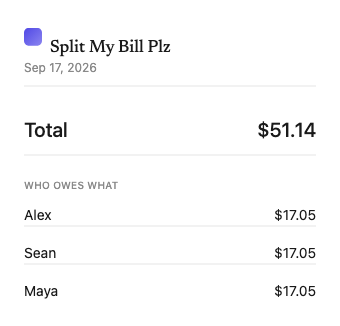
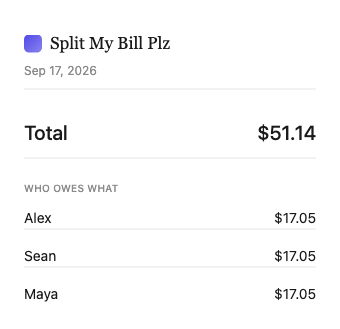
Fix brand mark/wordmark alignment in receipt image export
Found and fixed two distinct bugs while chasing the reported header
misalignment:

1. A real quoting bug: SERIF_STACK briefly used a double-quoted font
   name ("Times New Roman") interpolated into an already double-quoted
   HTML style="..." attribute, which silently truncated the attribute
   at that inner quote — every CSS declaration after font-family was
   being dropped by the HTML parser, undetectable by eye since Georgia
   still rendered as *a* serif font.

2. A genuine html2canvas bug, confirmed by comparing this exact markup
   rendered by a real browser screenshot vs. by html2canvas: the live
   browser centers the mark and wordmark correctly, but html2canvas
   anchors text glyphs near the bottom of their line box instead of
   centering the ink within it, regardless of font. Since this row's
   content is fixed ("Split My Bill Plz" at a constant font-size, never
   data-driven per bill), a measured constant offset on the mark is a
   safe, permanent fix rather than a fragile guess — landed at a 0.2px
   measured delta, tuned against the same pixel-ink test technique
   already in this suite. Added a dedicated test for this row.

diff --git a/src/lib/receiptImage.ts b/src/lib/receiptImage.ts
@@ -5,7 +5,18 @@ const BRAND_LIGHT = '#8B85F0';
 const TEXT = '#1a1a1a';
 const MUTED = '#8a8a8a';
 const BORDER = '#e5e5e5';
-const SERIF_STACK = 'var(--font-receipt-serif), Georgia, serif';
+// Deliberately not the app's --font-receipt-serif custom web font (Newsreader,
+// via next/font): confirmed by direct comparison (a real browser screenshot
+// vs. this same markup rasterized by html2canvas) that html2canvas mismeasures
+// that custom font's vertical metrics badly enough to throw off text-centering
+// math by ~10px, even though the live browser renders it correctly. Georgia is
+// a plain system serif with no custom @font-face, which html2canvas measures
+// reliably — worth the small loss of brand flourish in just this export.
+// Single-quoted font name: this stack gets interpolated straight into a
+// double-quoted HTML style="..." attribute, and a double-quoted "Times New
+// Roman" there would silently truncate the attribute at that quote — every
+// declaration after font-family would just be dropped by the HTML parser.
+const SERIF_STACK = "Georgia, 'Times New Roman', serif";
 
 function escapeHtml(value: string) {
   return value.replace(/[&<>"']/g, (char) =>
@@ -31,11 +42,22 @@ function buildReceiptMarkup(data: ReceiptData): string {
     )
     .join('');
 
+  // The brand row's span line-height matches the mark's 18px height so both
+  // flex children have identical box height. Even so, html2canvas paints
+  // text glyphs anchored near the bottom of their line box rather than
+  // centering the glyph ink within it (confirmed by comparing this exact
+  // markup's rendered pixels against a real browser screenshot of it —
+  // the live browser centers it correctly, html2canvas doesn't), so the
+  // solid-color mark — whose own ink faithfully fills its box, unlike
+  // text — needs a manual offset to visually land where html2canvas
+  // actually draws the text. This offset is only safe as a hardcoded
+  // constant because this row's content ("Split My Bill Plz" at a fixed
+  // font-size) never varies per bill.
   return `
     <div style="background:#ffffff;color:${TEXT};font-family:-apple-system,BlinkMacSystemFont,Segoe UI,sans-serif;width:340px;padding:24px;">
-      <div style="display:flex;align-items:center;gap:8px;margin-bottom:2px;">
-        <div style="width:18px;height:18px;border-radius:5px;background:linear-gradient(135deg, ${BRAND}, ${BRAND_LIGHT});flex-shrink:0;"></div>
-        <span style="font-family:${SERIF_STACK};font-weight:500;font-size:17px;">Split My Bill Plz</span>
+      <div style="display:flex;align-items:flex-start;gap:8px;margin-bottom:2px;">
+        <div data-testid="brand-mark" style="width:18px;height:18px;border-radius:5px;background:linear-gradient(135deg, ${BRAND}, ${BRAND_LIGHT});flex-shrink:0;margin-top:10.5px;"></div>
+        <span data-testid="brand-name" style="font-family:${SERIF_STACK};font-weight:500;font-size:17px;line-height:18px;">Split My Bill Plz</span>
       </div>
       <div style="color:${MUTED};font-size:12px;margin-bottom:16px;">${escapeHtml(data.date)}</div>
       <div style="display:flex;align-items:baseline;justify-content:space-between;border-top:1px solid ${BORDER};margin-top:2px;padding-top:18px;font-weight:500;font-size:20px;">

diff --git a/tests/e2e/receipt-export.spec.ts b/tests/e2e/receipt-export.spec.ts
@@ -8,6 +8,18 @@ import { captureRowAlignment, keyFor } from './helpers/canvasInk';
 // room for anti-aliasing noise without masking a real several-pixel drift.
 const ALIGNMENT_TOLERANCE_PX = 2;
 
+test('brand mark and wordmark share a vertical center', async ({ page }) => {
+  await buildDemoBill(page, ['Alex'], [{ name: 'Dinner', price: '20', tax: '8' }]);
+
+  const [result] = await captureRowAlignment(page, [
+    { row: 'Brand', leftKey: keyFor('brand-mark'), rightKey: keyFor('brand-name') },
+  ]);
+
+  expect(result.delta, `Brand row misaligned by ${result.delta.toFixed(1)}px`).toBeLessThanOrEqual(
+    ALIGNMENT_TOLERANCE_PX
+  );
+});
+
 test('total label and amount share a baseline', async ({ page }) => {
   await buildDemoBill(page, ['Alex'], [{ name: 'Dinner', price: '20', tax: '8' }]);
 

diff --git a/src/app/page.tsx b/src/app/page.tsx
@@ -228,7 +228,7 @@ export default function Home() {
                     src="/screenshot-receipt-export.png"
                     alt="A generated receipt image for a dinner bill, showing the total amount and each person's share"
                     width={680}
-                    height={652}
+                    height={658}
                     className="rounded-lg w-full h-auto"
                   />
                 </div>
